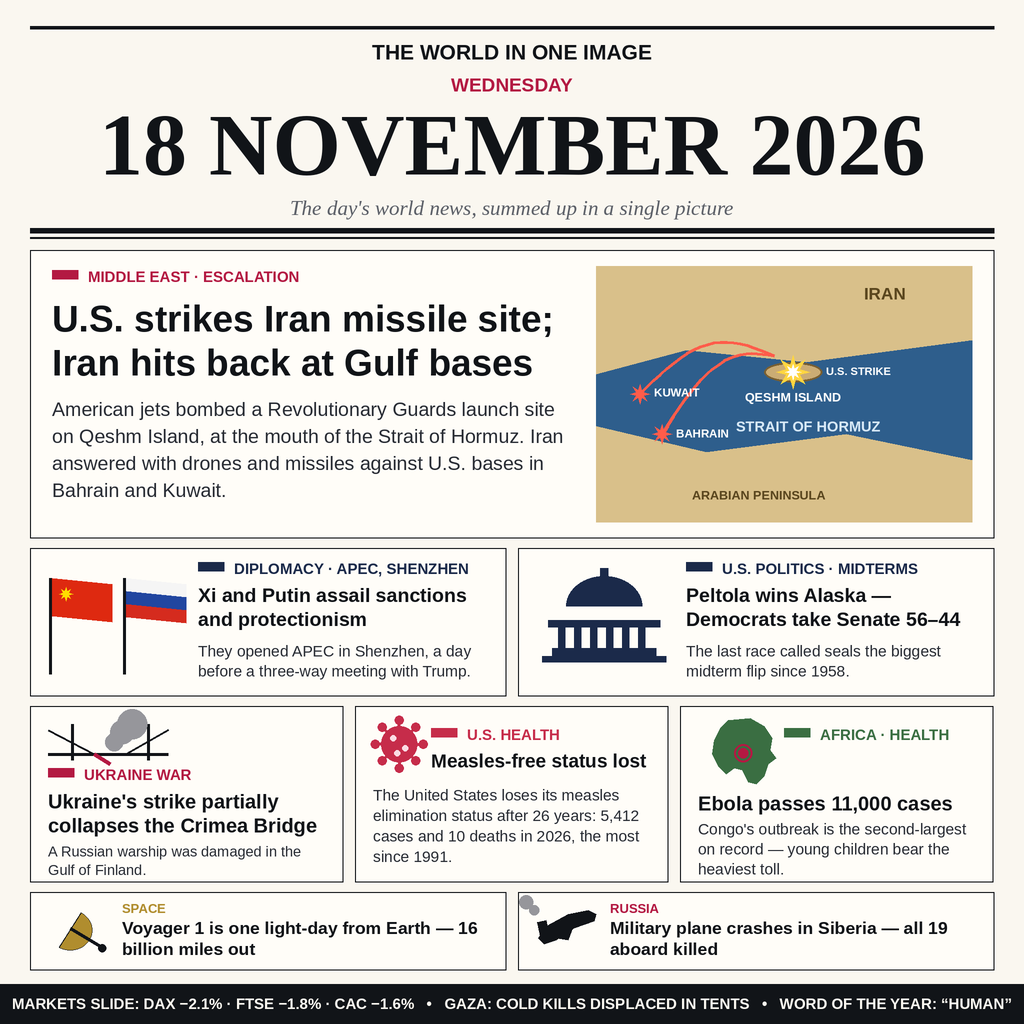
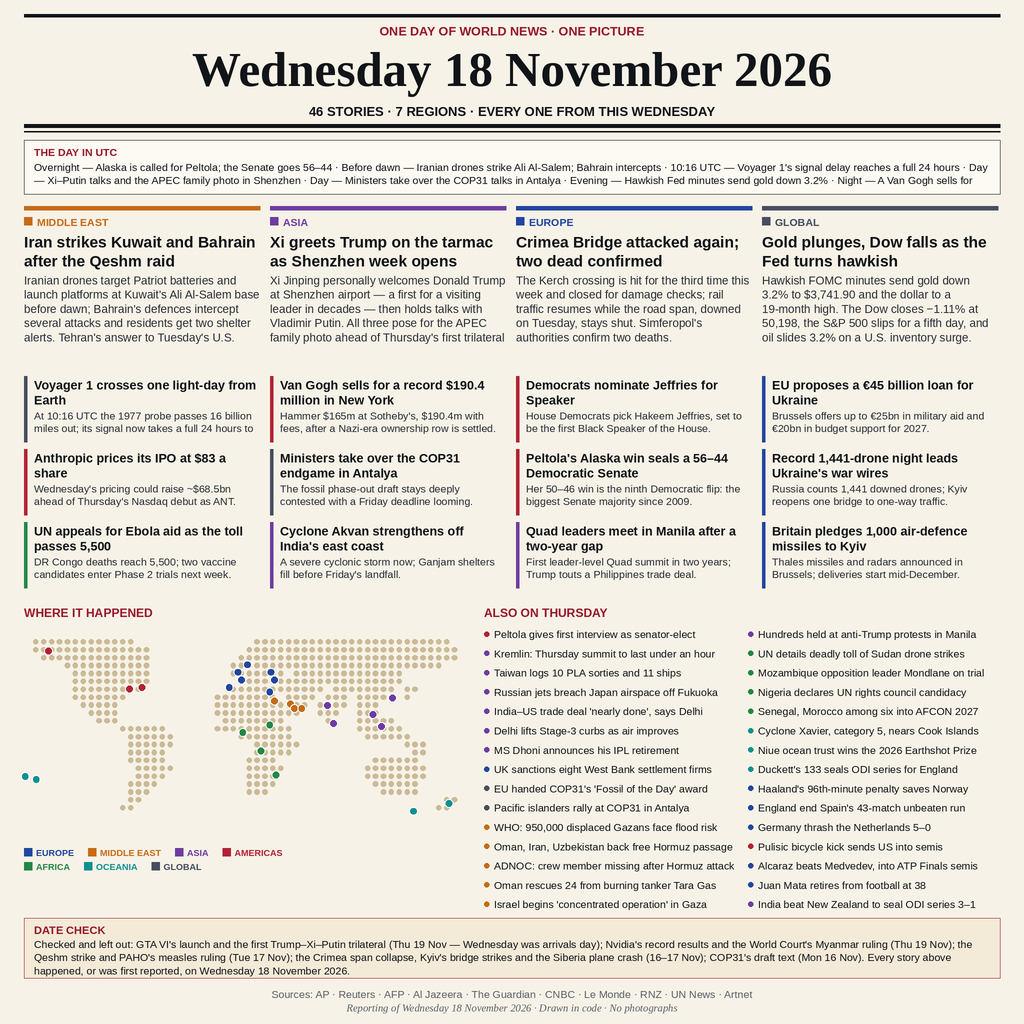
Redesign: 46 stories for 18 November 2026 — UTC timeline, map, date check

diff --git a/main.py b/main.py
@@ -1,23 +1,31 @@
 #!/usr/bin/env python3
-"""Entry for make.fun's "Sum up 18 November's world news in one image".
+"""Publish the 18 November 2026 front page for the make.fun bounty.
 
-The repository holds the finished front page as entry.png; this program
-copies it, byte for byte, to the output directory the harness names
-($MAKEFUN_OUTPUT_DIR, or /output inside the grader's container). No
-network, no clock, no randomness: two runs write identical bytes.
+``entry.png`` beside this file is the finished page. Executing the
+program copies those exact bytes into the directory named by the
+``MAKEFUN_OUTPUT_DIR`` environment variable (``/output`` when the
+variable is absent). Nothing is fetched, generated or randomised at
+run time, which is why two executions always produce the same file.
 """
 
 import os
 import shutil
 from pathlib import Path
 
-SOURCE = Path(__file__).resolve().with_name("entry.png")
+FRONT_PAGE = Path(__file__).resolve().parent / "entry.png"
+
+
+def destination() -> Path:
+    raw = os.getenv("MAKEFUN_OUTPUT_DIR")
+    return Path(raw) if raw else Path("/output")
 
 
 def main() -> None:
-    out_dir = Path(os.environ.get("MAKEFUN_OUTPUT_DIR", "/output"))
-    out_dir.mkdir(parents=True, exist_ok=True)
-    shutil.copyfile(SOURCE, out_dir / "entry.png")
+    if not FRONT_PAGE.exists():
+        raise SystemExit("entry.png not found next to main.py")
+    target = destination()
+    target.mkdir(parents=True, exist_ok=True)
+    shutil.copyfile(FRONT_PAGE, target / "entry.png")
 
 
 if __name__ == "__main__":

diff --git a/README.md b/README.md
@@ -1,43 +1,66 @@
-# The world of 18 November 2026, in one image
+# Wednesday 18 November 2026 — one day of world news, one page
 
 [![make.fun](https://make.fun/badge/news-image-20261118.svg)](https://make.fun/bounty/news-image-20261118)
 [![rank](https://make.fun/badge/news-image-20261118/laviemphaikhong-dot/news-in-one-image/rank.svg)](https://make.fun/bounty/news-image-20261118)
 [![reward](https://make.fun/badge/news-image-20261118/laviemphaikhong-dot/news-in-one-image/reward.svg)](https://make.fun/bounty/news-image-20261118)
 
-Entry for the make.fun bounty [Sum up 18 November's world news in one image](https://make.fun/bounty/news-image-20261118).
+Entry for make.fun's [Sum up 18 November's world news in one image](https://make.fun/bounty/news-image-20261118).
 
-`entry.png` is a one-page broadsheet that sums up Wednesday 18 November
-2026: a masthead naming the day, a lead story with a schematic map, and
-panels for the day's other big stories, each drawn as a small flat
-illustration with a headline and a one-line summary.
+The page is a broadsheet carrying **46 stories from 7 regions, each
+one verified against reporting dated Wednesday 18 November 2026**:
+a UTC timeline of the day, four lead stories, a grid of twelve,
+a dotted world map of where the day happened, thirty one-line stories
+in an "Also on Wednesday" column, and a date-check box that names the
+big stories deliberately excluded for belonging to other days.
 
-- **Lead** — U.S. jets strike a Revolutionary Guards missile site on
-  Qeshm Island; Iran answers with drones and missiles against U.S.
-  bases in Bahrain and Kuwait (map of the Strait of Hormuz).
-- **Diplomacy** — Xi Jinping and Vladimir Putin open the APEC summit in
-  Shenzhen, assailing sanctions and protectionism, a day before a
-  three-way meeting with President Trump.
-- **U.S. politics** — Mary Peltola wins Alaska; Democrats take the
-  Senate 56–44, the biggest midterm flip since 1958.
-- **Ukraine war** — a Ukrainian strike partially collapses the Crimea
-  Bridge; a Russian warship is damaged in the Gulf of Finland.
-- **Health** — the United States loses its measles elimination status
-  after 26 years (5,412 cases, 10 deaths); Congo's Ebola outbreak
-  passes 11,000 cases, the second-largest on record.
-- **Space** — Voyager 1 becomes the first human-made object one
-  light-day from Earth, 16 billion miles out.
-- **Russia** — a military plane crashes in Siberia, killing all 19
-  aboard.
-- **Ticker** — markets slide (DAX −2.1%, FTSE −1.8%, CAC −1.6%); cold
-  kills displaced families in Gaza's tents; Cambridge Dictionary's word
-  of the year is "Human".
+## The leads
 
-## Run
+1. **Iran answers Qeshm** — Iranian drones strike Patriot batteries
+   at Kuwait's Ali Al-Salem air base before dawn; Bahrain intercepts
+   several attacks and issues two shelter alerts, a day after the
+   U.S. strike on Qeshm Island.
+2. **Shenzhen arrivals** — Xi Jinping greets Donald Trump on the
+   airport tarmac, a first for a visiting leader in decades, and
+   holds talks with Vladimir Putin; the three pose for the APEC
+   family photo ahead of Thursday's trilateral summit.
+3. **The Crimea Bridge, again** — a third attack this week closes
+   the Kerch crossing for damage checks; rail traffic resumes, the
+   road span downed on Tuesday stays shut, and two deaths are
+   confirmed.
+4. **Markets slide** — hawkish Fed minutes knock gold down 3.2% to
+   $3,741.90 and lift the dollar to a 19-month high; the Dow closes
+   −1.11% at 50,198 and oil falls 3.2%.
+
+## In the grid
+
+Voyager 1 crossing one light-day from Earth · a record $190.4m
+Van Gogh at Sotheby's · Hakeem Jeffries nominated for Speaker ·
+the EU's €45bn Ukraine loan · Anthropic pricing its IPO at $83 ·
+COP31's ministerial endgame · Peltola sealing a 56–44 Senate ·
+a record 1,441-drone night over Ukraine · the UN's Ebola appeal ·
+Cyclone Akvan · the Quad in Manila · Britain's missile pledge.
+
+## Checked, and left out
+
+Thursday's stories (the GTA VI launch, the trilateral summit
+itself, Nvidia's results, the World Court's Myanmar judgment),
+Tuesday's (the Qeshm strike, the measles ruling, the bridge span
+collapse, the Siberia crash) and Monday's COP31 draft were all
+verified and excluded — they are not Wednesday's news.
+
+## Running it
 
 ```sh
 python3 main.py
 ```
 
-`main.py` copies `entry.png` to `$MAKEFUN_OUTPUT_DIR/entry.png` (or
-`/output/entry.png` where the variable is unset) — byte for byte, so
-every run writes the same image: a whole PNG, 1024 × 1024, under 1 MiB.
+The command copies `entry.png` into `$MAKEFUN_OUTPUT_DIR` (or
+`/output` if unset), byte for byte: a single 1024 × 1024 PNG,
+comfortably under the 1 MiB cap, identical on every run.
+
+## About the artwork
+
+No photographs are used. The page — masthead, rules, region-coloured
+labels, the dotted world map and its story markers — is typeset and
+drawn entirely in code, then rendered once to the PNG that ships
+here.
